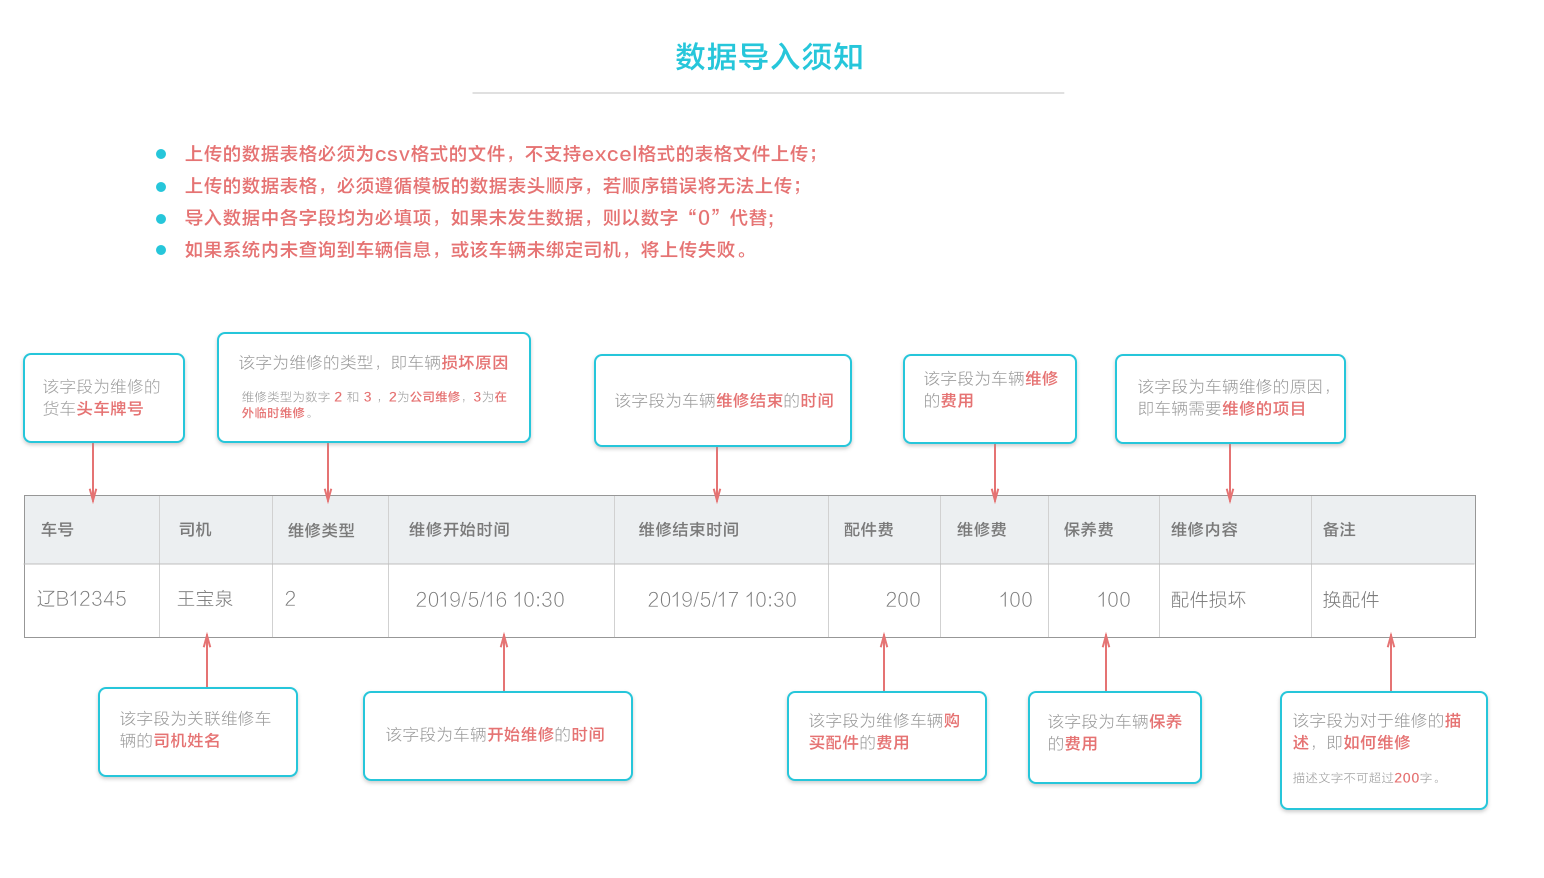
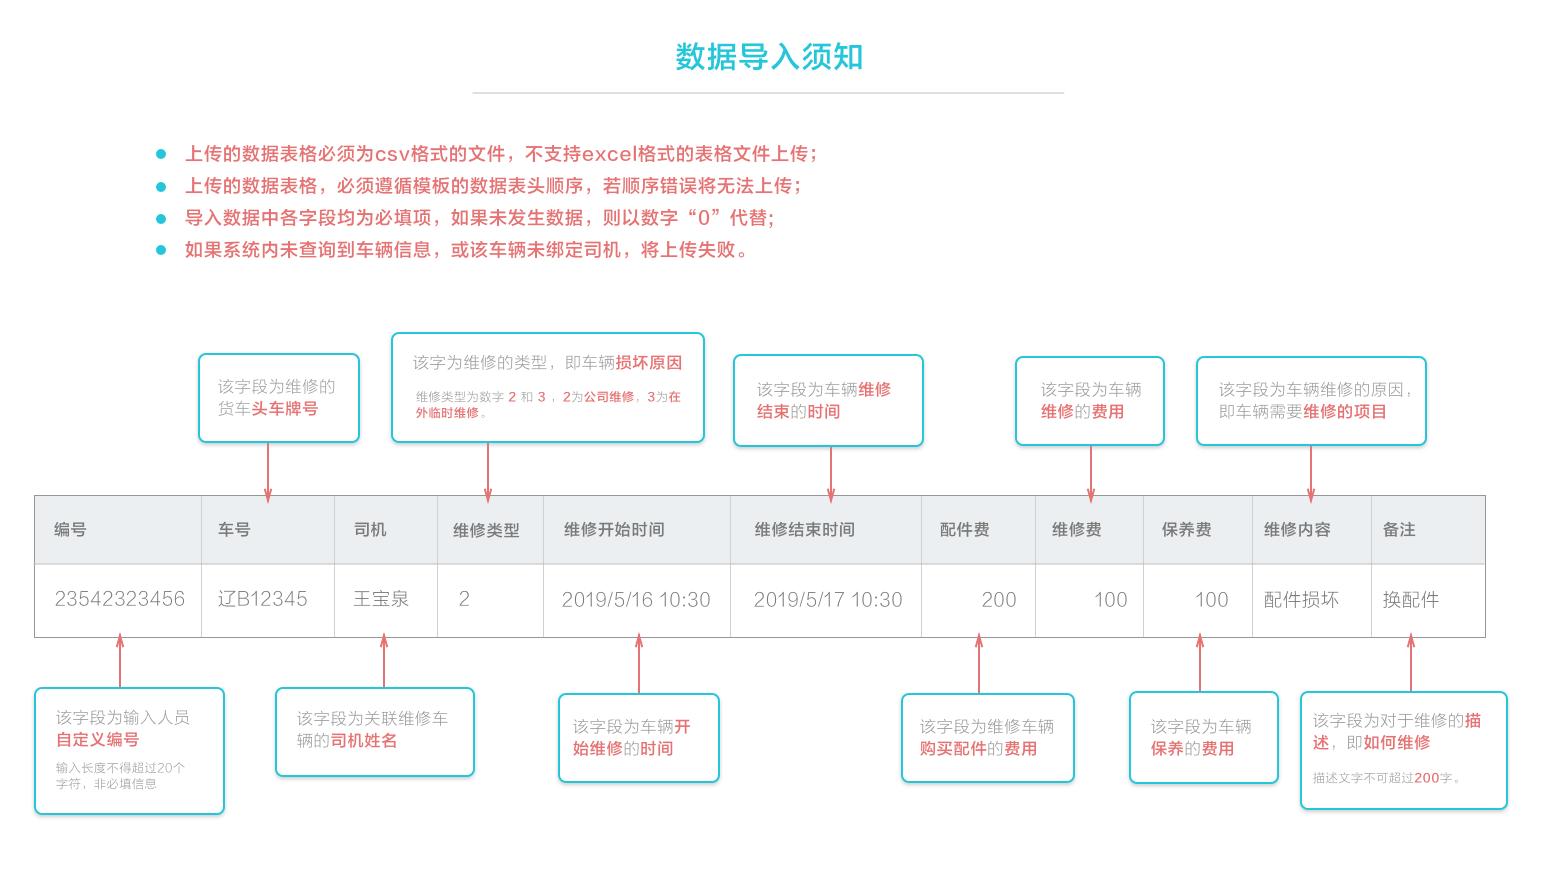
维修修改

diff --git a/web/js/view/truck/truck_repair.html b/web/js/view/truck/truck_repair.html
@@ -17,29 +17,44 @@
                 </div>
                 <div class="row col s12" style="margin-top: 15px">
                     <div class="col s8 offset-s2">
-                        <div class="col s6 input-field">
+                        <div class="col s4 input-field">
+                            <input type="number" id="addnumber" name="addnumber" ng-model="addnumber">
+                            <label for="addnumber">编号</label>
+                        </div>
+                        <div class="col s4 input-field">
                             <select material-select watch id="repairStation" class="truck_type" ng-model="repairStation">
                                 <option value="" selected disabled>请选择</option>
                                 <option ng-repeat="station in repairStationList" ng-value="station.id">{{station.repair_station_name}}</option>
                             </select>
                             <label for="repairStation"><span style="color: red">* </span>选择维修站</label>
                         </div>
-                        <div class="col s6 input-field">
-                            <input style="font-size: 1.8rem;text-align: right;color: rgb(230,123,123)" type="number" name="repairMoney" id="repairMoney" ng-model="repairMoney">
-                            <label for="repairMoney"><span style="color: red">* </span>维修金额</label>
+                        <div class="col s4 input-field">
+                            <select material-select watch id="paymentType"  ng-model="paymentType">
+                                <option value="">请选择</option>
+                                <option value="1">否</option>
+                                <option value="2">是</option>
+                            </select>
+                            <label for="paymentType"><span style="color: red">* </span>财务打款</label>
                         </div>
+
                     </div>
                 </div>
                 <div class="row col s12" style="margin-top: 15px">
                     <div class="col s8 offset-s2">
-                        <div class="col s6 input-field">
+                        <div class="col s4 input-field">
+                            <input style="font-size: 1.8rem;text-align: right;color: rgb(230,123,123)" type="number" name="repairMoney" id="repairMoney" ng-model="repairMoney">
+                            <label for="repairMoney"><span style="color: red">* </span>维修金额</label>
+                        </div>
+                        <div class="col s4 input-field">
                             <input style="font-size: 1.8rem;text-align: right;color: rgb(230,123,123)" type="number" name="partsMoney" id="partsMoney" ng-model="partsMoney">
                             <label for="partsMoney"><span style="color: red">* </span>配件金额</label>
                         </div>
-                        <div class="col s6 input-field">
+                        <div class="col s4 input-field">
                             <input style="font-size: 1.8rem;text-align: right;color: rgb(230,123,123)" type="number" name="maintainMoney" id="maintainMoney" ng-model="maintainMoney">
                             <label for="maintainMoney"><span style="color: red">* </span>保养金额</label>
                         </div>
+
+
                     </div>
                 </div>
                 <div class="row col s12" style="margin-top: 10px">
@@ -68,6 +83,11 @@
             </div>
         </div>
     </div>
+
+
+
+
+
 
     <div  class="row col s12" style="width: 75%;margin: 0 auto">
         <!--简短信息-->
@@ -212,6 +232,8 @@
                             </div>
                             <div class="row" style="margin-bottom: 0">
                                 <div class="col s4 offset-s8 right-align">
+                                    <p style="font-size: 1.2rem;font-weight: bold;color: darkgray;margin: 0">编号：<span style="color: #e57474">{{repaired.number==null?'未知':repaired.number}}</span></p>
+                                    <p style="font-size: 1.2rem;font-weight: bold;color: darkgray;margin: 0">财务打款：<span style="color: #e57474">{{repaired.payment_type==1?'否':'是'}}</span></p>
                                     <p style="font-size: 1.2rem;font-weight: bold;color: darkgray;margin: 0">维修金额：<span style="color: #e57474">{{repaired.repair_money}} </span>元</p>
                                     <p style="font-size: 1.2rem;font-weight: bold;color: darkgray;margin: 0">配件金额：<span style="color: #e57474">{{repaired.parts_money}} </span>元</p>
                                     <p style="font-size: 1.2rem;font-weight: bold;color: darkgray;margin: 0">保养金额：<span style="color: #e57474">{{repaired.maintain_money}} </span>元</p>

diff --git a/web/js/controller/truck/look_truck_management_controller.js b/web/js/controller/truck/look_truck_management_controller.js
@@ -435,8 +435,6 @@ app.controller("look_truck_management_controller", ["$scope", "$state", "$stateP
                     $scope.repairReason = $scope.repairingInfo[0].repair_reason;
                     relId = $scope.repairingInfo[0].id;
                 }
-                // console.log("repairingInfo",$scope.repairingInfo);
-                // console.log("repairedInfo",$scope.repairedInfo);
             }
             else {
                 swal(data.msg, "", "error");
@@ -452,17 +450,16 @@ app.controller("look_truck_management_controller", ["$scope", "$state", "$stateP
 
     // 维修模态框内点击确定
     $scope.createRepairInfo = function () {
-        // console.log("truckAccId",truckAccId);
+
         if($scope.repairReason !== ""){
             _basic.post($host.api_url + "/user/" + userId + "/truck/" + $scope.truckId + "/truckRepairRel",{
+                paymentType:$scope.paymentType,
                 repairType: 1,
                 accidentId: truckAccId,
                 repairReason: $scope.repairInfo
             }).then(function (data) {
                 if (data.success === true) {
-                    // console.log("data", data);
                     relId = data.result.truckRepairRelId;
-                    // console.log("relId",relId);
                     $scope.getRepairInfo();
                     $("#repairReasonMod").modal("close");
                 }
@@ -484,7 +481,6 @@ app.controller("look_truck_management_controller", ["$scope", "$state", "$stateP
             repairReason: $scope.repairReason
         }).then(function (data) {
             if (data.success === true) {
-                // console.log("data", data);
                 $scope.getRepairInfo();
             }
             else {
@@ -512,7 +508,7 @@ app.controller("look_truck_management_controller", ["$scope", "$state", "$stateP
 
     // 模态框内点击维修完成
     $scope.completeRepairInfo = function () {
-        if($scope.repairStationMod != "" && $scope.repairMoneyMod != "" && $scope.repairExplainMod != ""){
+        if($scope.repairStationMod != "" && $scope.repairMoneyMod != "" && $scope.repairExplainMod != ""&&$scope.paymentType!==''){
             swal({
                     title: "确定维修结束吗？",
                     type: "warning",
@@ -524,6 +520,8 @@ app.controller("look_truck_management_controller", ["$scope", "$state", "$stateP
                 function(result){
                     if (result.value) {
                         _basic.put($host.api_url + "/user/" + userId + "/truckRepairRel/" + relId, {
+                            number:$scope.addnumber,
+                            paymentType:$scope.paymentType,
                             repairType: 1,
                             accidentId: truckAccId,
                             repairReason: $scope.repairReason,

diff --git a/web/js/view/truck/look_truck_management.html b/web/js/view/truck/look_truck_management.html
@@ -106,14 +106,26 @@
             </div>
             <div class="row col s12" style="margin-top: 35px">
                 <div class="col s8 offset-s2">
-                    <div class="col s6 input-field">
+                    <div class="col s3 input-field">
+                        <input type="number" id="addnumber" name="addnumber" ng-model="addnumber">
+                        <label for="addnumber">编号</label>
+                    </div>
+                    <div class="col s3 input-field">
                         <select id="repair_station" name="repair_station" ng-model="repairStationMod" material-select watch>
                             <option value="" selected>请选择</option>
                             <option ng-repeat="repair in repairStationList" ng-value="repair.id">{{repair.repair_station_name}}</option>
                         </select>
                         <label for="repair_station"><span style="color: red">* </span>维修站</label>
                     </div>
-                    <div class="col s6 input-field">
+                    <div class="col s3 input-field">
+                        <select material-select watch id="paymentType"  ng-model="paymentType">
+                            <option value="">请选择</option>
+                            <option value="1">否</option>
+                            <option value="2">是</option>
+                        </select>
+                        <label for="paymentType"><span style="color: red">* </span>财务打款</label>
+                    </div>
+                    <div class="col s3 input-field">
                         <input style="font-size: 2rem;text-align: right;color: rgb(230,123,123)" type="number" id="repair_money_mod" name="repair_money_mod" ng-model="repairMoneyMod">
                         <label for="repair_money_mod"><span style="color: red">* </span>维修金额</label>
                     </div>
@@ -520,6 +532,8 @@
                                 </div>
                                 <div class="col s12">
                                     <div class="col s4 offset-s8 right-align">
+                                        <p>编号：{{accident.number==null?'未知':accident.number}}</p>
+                                        <p>财务打款：{{accident.payment_type==1?'否':'是'}}</p>
                                         <p>维修金额：<span style="color: #e57676;font-weight: bold">{{accident.repair_money.toFixed(2)}}</span> 元</p>
                                     </div>
                                 </div>

diff --git a/web/js/controller/truck/truck_repair_controller.js b/web/js/controller/truck/truck_repair_controller.js
@@ -162,7 +162,7 @@ app.controller("truck_repair_controller", ["$scope", "$state", "$stateParams", "
 
     // 模态框内确认维修结束
     $scope.completeRepairInfo = function () {
-        if($scope.relId !== "" && $scope.repairStation != null && $scope.repairMoney !==""&&$scope.partsMoney!==''&&$scope.maintainMoney!==''){
+        if($scope.relId !== "" && $scope.repairStation != null && $scope.repairMoney !==""&&$scope.partsMoney!==''&&$scope.maintainMoney!==''&&$scope.paymentType!==''){
             swal({
                     title: "确定结束维修吗？",
                     type: "warning",
@@ -174,11 +174,14 @@ app.controller("truck_repair_controller", ["$scope", "$state", "$stateParams", "
                 function(result){
                     if (result.value) {
                         _basic.put($host.api_url + "/user/" + userId + "/truckRepairRel/" + $scope.relId, {
+                            number:$scope.addnumber,
                             repairStationId: $scope.repairStation,
                             remark: $scope.repairDescription,
                             repairMoney: $scope.repairMoney,
                             partsMoney: $scope.partsMoney,
-                            maintainMoney: $scope.maintainMoney
+                            maintainMoney: $scope.maintainMoney,
+                            paymentType:$scope.paymentType
+
                         }).then(function (data) {
                             if (data.success === true) {
                                 $('#repairFinishMod').modal('close');

diff --git a/web/js/controller/truck/truck_repair_list_controller.js b/web/js/controller/truck/truck_repair_list_controller.js
@@ -60,6 +60,7 @@ app.controller("truck_repair_list_controller", ['$rootScope', "$rootScope","$sta
 
     // 过滤条件数据
     var colObjs = [
+        {name: '编号', type: 'string',require: false},
         {name: '车号', type: 'string',require: true},
         {name: '司机', type: 'string',require: true},
         {name: '维修类型', type: 'number', require: true},
@@ -405,7 +406,7 @@ app.controller("truck_repair_list_controller", ['$rootScope', "$rootScope","$sta
             $scope.addDrivderId='';
             $scope.driveNameList=[];
             $scope.driveName='';
-
+            getDriverId();
         }
         else {
             $scope.addDrivderId=$scope.modTruckNum.drive_id;
@@ -420,6 +421,7 @@ app.controller("truck_repair_list_controller", ['$rootScope', "$rootScope","$sta
                 }
             });
         }
+
         $scope.associatedAccident = "";
         _basic.get($host.api_url + "/truckAccident?truckId=" + $scope.modTruckNum.id).then(function (data) {
             if (data.success === true) {

diff --git a/web/js/view/truck/import_etc.html b/web/js/view/truck/import_etc.html
@@ -341,7 +341,7 @@
                         <option value="1">否</option>
                         <option value="2">是</option>
                     </select>
-                    <label for="has_loan">是否财务打款</label>
+                    <label for="has_loan">财务打款</label>
                 </div>
 
                 <div class="col s2 input-field">
